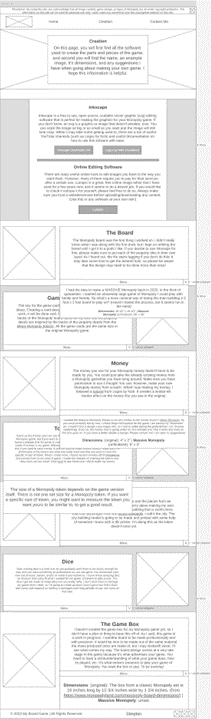
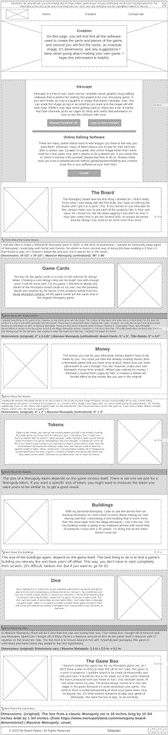
Update Siteplan and creation.css
Fixed wireframe to match the website that I now have/ I also added the paragraph font to anywhere that needed it in creation.css.

diff --git a/styles/creation.css b/styles/creation.css
@@ -174,7 +174,8 @@ hr {
 }
 
 .piece-p1 {
-    font-size: 1.8em;
+    font-family: var(--paragraph-font);
+    font-size: 1.5em;
     grid-column: 3/6;
     padding: 4%;
     background-color: var(--primary-color);
@@ -204,7 +205,8 @@ hr {
 }
 
 .piece-p2 {
-    font-size: 1.8em;
+    font-family: var(--paragraph-font);
+    font-size: 1.5em;
     grid-column: 1/3;
     grid-row: 1;
     padding: 4%;
@@ -239,39 +241,40 @@ hr {
 and tweaking it to my liking. You can find the video
 here: https://youtu.be/2cPKsxJcF9Y?si=iePCrZ3yN9kQ2fbq */
 input {
-  display: none;
+    display: none;
 }
 
 .more-label {
-  font-size: 30px;
-  background-color: var(--accent1-color);
-  display: block;
-  cursor: pointer;
-  padding: 10px 10px 10px 30px;
-  position: relative;
-  user-select: none;
-  padding-left: 29px;
+    font-family: var(--paragraph-font);
+    font-size: 30px;
+    background-color: var(--accent1-color);
+    display: block;
+    cursor: pointer;
+    padding: 10px 10px 10px 30px;
+    position: relative;
+    user-select: none;
+    padding-left: 29px;
 }
 
 .more-label:before {
-  content: "";
-  border-width: 10px;
-  border-style: solid;
-  border-color: transparent transparent transparent black;
-  height: 0;
-  font-size: 0;
-  position: absolute;
-  top: 18px;
-  left: 12px;
-  transition: transform 0.3s;
-  transform-origin: 3px center;
+    content: "";
+    border-width: 10px;
+    border-style: solid;
+    border-color: transparent transparent transparent black;
+    height: 0;
+    font-size: 0;
+    position: absolute;
+    top: 18px;
+    left: 12px;
+    transition: transform 0.3s;
+    transform-origin: 3px center;
 }
 
 .accordian div {
-  font-size: 26px;  
-  height: 0;
-  overflow:hidden;
-  opacity:0;
+    font-size: 26px;  
+    height: 0;
+    overflow: hidden;
+    opacity:0;
 }
 
 #trigger1:checked ~ label:before,
@@ -281,8 +284,8 @@ input {
 #trigger5:checked ~ label:before,
 #trigger6:checked ~ label:before,
 #trigger7:checked ~ label:before {
-  top: 18px;
-  transform: rotate(90deg)
+    top: 18px;
+    transform: rotate(90deg)
 }
 
 #trigger1:checked ~ div,
@@ -292,25 +295,23 @@ input {
 #trigger5:checked ~ div,
 #trigger6:checked ~ div,
 #trigger7:checked ~ div {
-  padding: 10px;
-  opacity: 1;
-  height: auto;
+    padding: 10px;
+    opacity: 1;
+    height: auto;
 }
 
 .more-div1 {
     background-color: var(--nav-hover-link-color);
+    font-family: var(--paragraph-font);
 }
 
 .more-div2 {
     background-color: var(--accent2-color);
     color: black;
+    font-family: var(--paragraph-font);
 }
 
 @media screen and (max-width: 1266px) {
-    *, *::before, *::after {
-        outline: 2px solid green;
-    }
-    
     .piece-div1 {
         display: block;
         text-align: center;
@@ -332,10 +333,10 @@ input {
     }
 
     .button {
-    width: fit-content;
-    text-align: center;
-    margin: 0 auto;
-}
+        width: fit-content;
+        text-align: center;
+        margin: 0 auto;
+    }
 
 }
 

diff --git a/site-plan/creation-images.html b/site-plan/creation-images.html
@@ -9,7 +9,7 @@
 <body>
     <img src="../images/creation/buildings_div.jpg" alt="image of monopoly houses">
     <img src="../images/creation/game_board_example.jpg" alt="an image of my personal massive monopoly board">
-    <img src="../images/creation/main-hero.jpg" alt="main hero image">
+    <img src="../images/creation/main-hero-cropped3.jpg" alt="main hero image">
     <img src="../images/creation/metal_dice_div.jpg" alt="an image of metal dice i bought off of amazon">
     <img src="../images/creation/money-div-image.jpg" alt="an image of an alternate version of monopoly money">
     <img src="../images/creation/monopoly-box-div.jpg" alt="an image of a deluxe monopoly game box">
